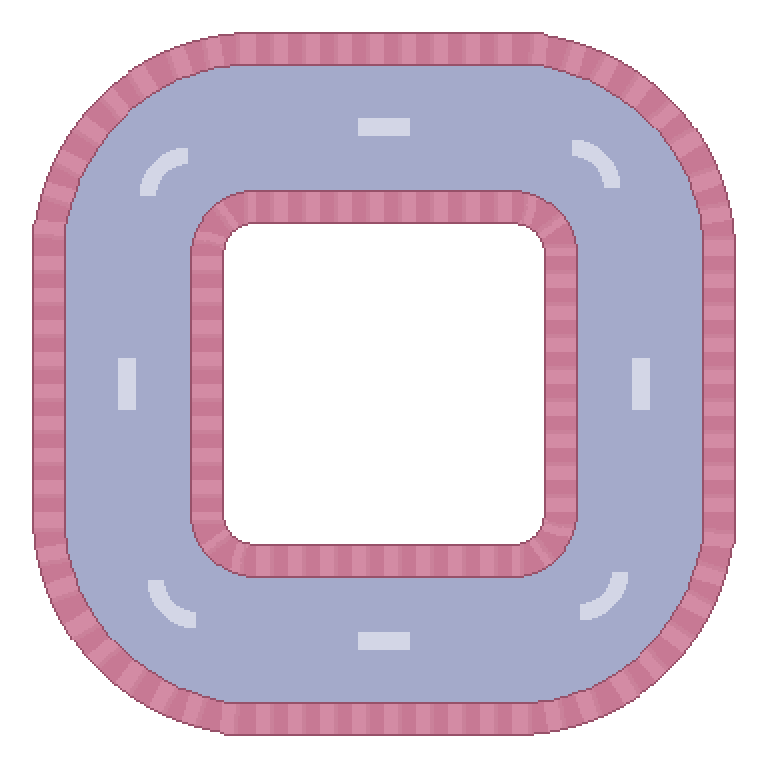
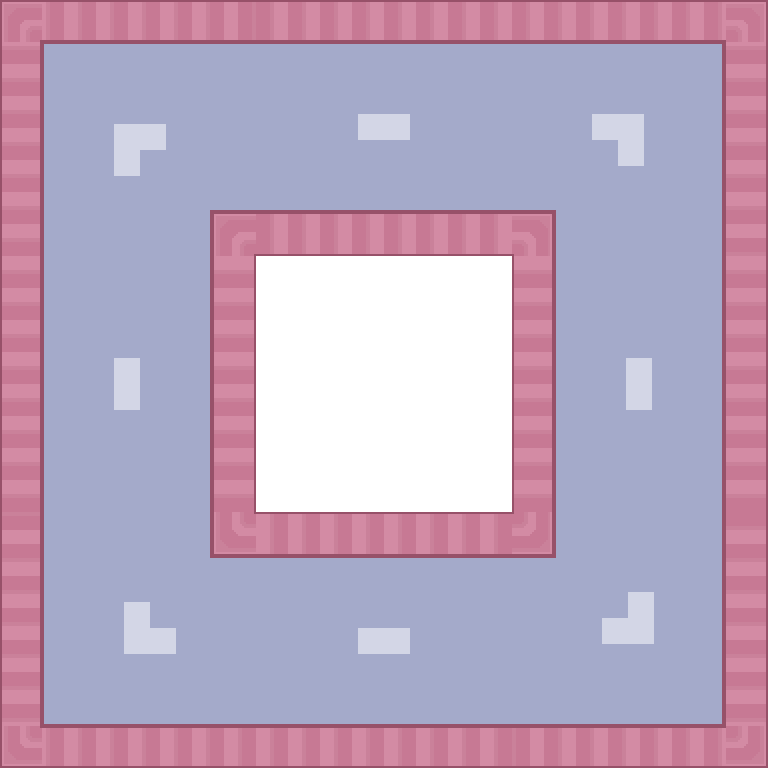
Map and debug modification
Chekpoint debugging with timer
Modification of the ‘circuit’ tile
Removal of leftover files

diff --git a/Source/ModuleRender.cpp b/Source/ModuleRender.cpp
@@ -10,7 +10,6 @@
 
 ModuleRender::ModuleRender(Application* app, bool start_enabled) : Module(app, start_enabled)
 {
-	background = DARKGREEN;
 }
 
 // Destructor
@@ -122,18 +121,21 @@ update_status ModuleRender::PostUpdate()
 		timerChrono.Draw(100, 65, lapText, YELLOW, 8);
 
 		//Checkpoints
-		int currentCP = App->scene_intro->nextCheckpointRequired - 1;
-		if (currentCP < 0) currentCP = 0;
+		if (App->physics->IsDebug() || App->scene_intro->checkpointFeedbackTimer > 0.0f)
+		{
+			int currentCP = App->scene_intro->nextCheckpointRequired - 1;
+			if (currentCP < 0) currentCP = 0;
 
-		const char* cpText = TextFormat("Checkpoints: %i/%i", currentCP, App->scene_intro->totalCheckpoints - 1);
+			const char* cpText = TextFormat("Checkpoints: %i/%i", currentCP, App->scene_intro->totalCheckpoints - 1);
 
-		timerChrono.Draw(100, 110, cpText, ORANGE, 20);
+			Color textColor = App->physics->IsDebug() ? ORANGE : GREEN;
+
+			timerChrono.Draw(100, 110, cpText, textColor, 20);
+		}
 	}
-		break;
+	break;
 	case GameScreen::GAMEOVER:
 		timer.Stop();
-		App->audio->StopFx(gameMusic);
-		App->audio->PlayFx(endMusic);
 
 		break;
 	}

diff --git a/Source/ModuleGame.h b/Source/ModuleGame.h
@@ -42,6 +42,8 @@ public:
 
 	int totalCheckpoints = 0;
 	int nextCheckpointRequired = 0; //Next checkpoint to take
+	float checkpointFeedbackTimer = 0.0f;
+
 	int completedLaps = 0;
 	int totalLaps = 3;
 
